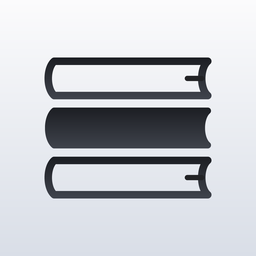
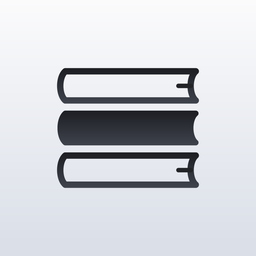
마이이치 1.3.0: 지원 언어에 중국어(간체)·스페인어 추가, 아이콘 교체

Changed region(s): [[0.1562, 0.2188, 0.8438, 0.7812]]

diff --git a/myichi/support.html b/myichi/support.html
@@ -16,9 +16,9 @@
 <h2>자주 묻는 질문</h2>
 <h3>위젯은 어떻게 추가하나요?</h3>
 <p><b>홈 화면:</b> 홈 화면 빈 곳을 길게 누르고 왼쪽 위 <b>편집</b> → <b>위젯 추가</b>에서 마이이치를 찾습니다.<br>
-<b>잠금 화면:</b> 잠금 화면을 길게 누르고 <b>사용자화</b> → <b>잠금 화면</b> → 위젯 영역을 눌러 마이이치의 <b>단어 하나 · 일본어</b> 또는 <b>단어 하나 · 영어</b>를 추가합니다.</p>
+<b>잠금 화면:</b> 잠금 화면을 길게 누르고 <b>사용자화</b> → <b>잠금 화면</b> → 위젯 영역을 눌러 마이이치의 <b>단어 하나 · 일본어</b>, <b>단어 하나 · 영어</b>, <b>단어 하나 · 중국어(간체)</b>, <b>단어 하나 · 스페인어</b> 중 하나를 추가합니다.</p>
 <h3>공부할 언어는 어떻게 바꾸나요?</h3>
-<p>앱 첫 화면 오른쪽 위의 언어 버튼(日本語 / English)을 누릅니다. 홈 화면 위젯은 선택한 언어를 따르고, 단계는 언어별로 따로 기억됩니다.</p>
+<p>앱 첫 화면 오른쪽 위의 언어 버튼을 누르고 日本語 / English / 中文(简体) / Español 중 하나를 고릅니다. 홈 화면 위젯은 선택한 언어를 따르고, 단계는 언어별로 따로 기억됩니다.</p>
 <h3>지금 단어를 넘기거나 이전 단어로 돌아갈 수 있나요?</h3>
 <p>단어 카드와 홈 화면 위젯 양옆의 화살표를 누릅니다. <b>›</b>는 같은 단계의 다른 단어를 보여 주고, <b>‹</b>는 방금 본 단어로 돌아갑니다(최근 20개까지). 넘긴 단어는 다음 10분 단위가 될 때까지 앱·홈 화면·잠금 화면에 같이 보입니다.</p>
 <h3>외운 단어는 어떻게 빼나요?</h3>
@@ -36,9 +36,9 @@
 <p>For bugs, vocabulary errors, or suggestions, please email <a href="mailto:contact@apneystudio.com">contact@apneystudio.com</a>.</p>
 <h3>How do I add the widget?</h3>
 <p><b>Home Screen:</b> Touch and hold an empty area, tap <b>Edit</b> → <b>Add Widget</b>, and find Myichi.<br>
-<b>Lock Screen:</b> Touch and hold the Lock Screen, tap <b>Customize</b> → <b>Lock Screen</b>, then tap the widget area and add Myichi’s <b>단어 하나 · 일본어</b> (Japanese) or <b>단어 하나 · 영어</b> (English).</p>
+<b>Lock Screen:</b> Touch and hold the Lock Screen, tap <b>Customize</b> → <b>Lock Screen</b>, then tap the widget area and add Myichi’s <b>단어 하나 · 일본어</b> (Japanese), <b>단어 하나 · 영어</b> (English), <b>단어 하나 · 중국어(간체)</b> (Chinese, Simplified) or <b>단어 하나 · 스페인어</b> (Spanish).</p>
 <h3>How do I change the study language?</h3>
-<p>Tap the language button (日本語 / English) at the top right of the app’s main screen. The Home Screen widget follows the selected language, and each language keeps its own level.</p>
+<p>Tap the language button at the top right of the app’s main screen and choose 日本語, English, 中文(简体) or Español. The Home Screen widget follows the selected language, and each language keeps its own level.</p>
 <h3>Can I skip a word or go back?</h3>
 <p>Tap the arrows on either side of the word card or the Home Screen widget. <b>›</b> shows another word from the same level, and <b>‹</b> goes back to words you just saw (up to the last 20). The word you move to stays on the app, Home Screen and Lock Screen until the next 10-minute slot.</p>
 <h3>How do I remove words I’ve learned?</h3>

diff --git a/myichi/index.html b/myichi/index.html
@@ -17,14 +17,14 @@
 <ul>
 <li>홈 화면·잠금 화면 위젯에 단어와 발음, 뜻을 표시합니다.</li>
 <li>단어는 일정 시간마다 바뀝니다.</li>
-<li>일본어와 영어 단어를 지원하며, 앱에서 공부할 언어를 바꿀 수 있습니다.</li>
+<li>일본어·영어·중국어(간체)·스페인어 단어를 지원하며, 앱에서 공부할 언어를 바꿀 수 있습니다.</li>
 <li>회원 가입이나 로그인이 없고, 단어 데이터는 모두 앱 안에 들어 있습니다.</li>
 </ul>
 </div>
 <nav><a href="privacy.html">개인정보 처리방침</a><a href="support.html">지원 및 문의</a></nav>
 <hr>
 <h2 lang="en">Myichi — One word a day</h2>
-<p class="sub" lang="en">Myichi shows one foreign-language word at a time on your Home Screen and Lock Screen widgets, with its pronunciation and Korean meaning. Supports Japanese and English vocabulary — switch the study language in the app. No sign-up, no account — all vocabulary data lives inside the app.</p>
+<p class="sub" lang="en">Myichi shows one foreign-language word at a time on your Home Screen and Lock Screen widgets, with its pronunciation and Korean meaning. Supports Japanese, English, Chinese (Simplified) and Spanish vocabulary — switch the study language in the app. No sign-up, no account — all vocabulary data lives inside the app.</p>
 <nav lang="en"><a href="privacy.html#en">Privacy Policy</a><a href="support.html#en">Support</a></nav>
 <footer>© 2026 <a href="../index.html">Apney Studio</a></footer>
 </main></body>
